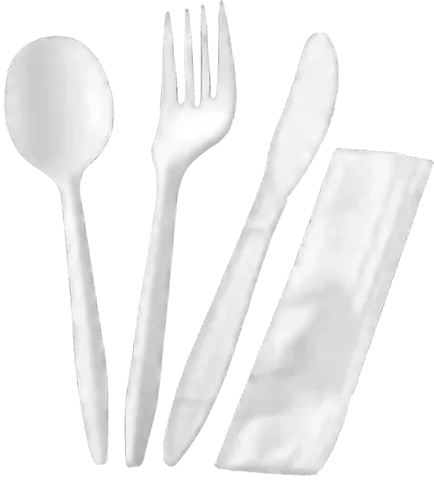
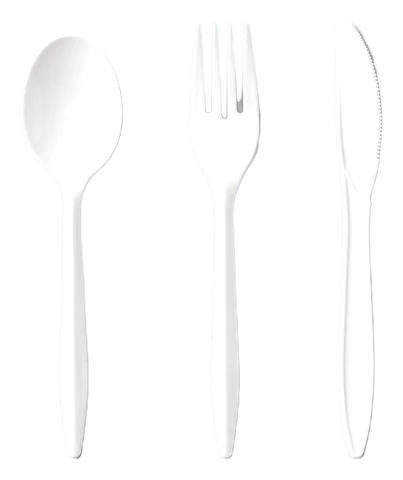
New photos: deli containers, portion cup lids, portion cups, medium-weight cutlery
Matt made four images with Gemini on Nov 12. Each is cut out (rembg
isnet-general-use), made opaque inside, cropped, and saved as the two
files the site uses (1000 px and 480 px). The images were made on lilac,
which showed through the clear plastic and tinted the white; that cast is
taken out so they read as photographed on white, like the rest of the
catalog. The cutlery keeps its spoon, fork and knife: the wrapped spoon
in the image is left out, because medium-weight cutlery is sold loose.
PHOTO_VERSION goes to 4 so browsers fetch the new files.

Claude-Session: https://claude.ai/code/session_01HmfzSSKjvKK56WTQs5ES3P

diff --git a/src/components/ProductVisual.tsx b/src/components/ProductVisual.tsx
@@ -23,7 +23,7 @@ export const CARD_PHOTO = "(max-width: 639px) 96px, 230px";
  * /img in next.config.ts). When a photo is replaced under the same name, raise this number: the address
  * changes, so every browser fetches the new file on its next visit.
  */
-export const PHOTO_VERSION = 3;
+export const PHOTO_VERSION = 4;
 
 /** A product photo or drawing on a lilac tile. */
 export function ProductVisual({ image, icon, alt = "", className, priority, sizes = CARD_PHOTO }: Props) {
